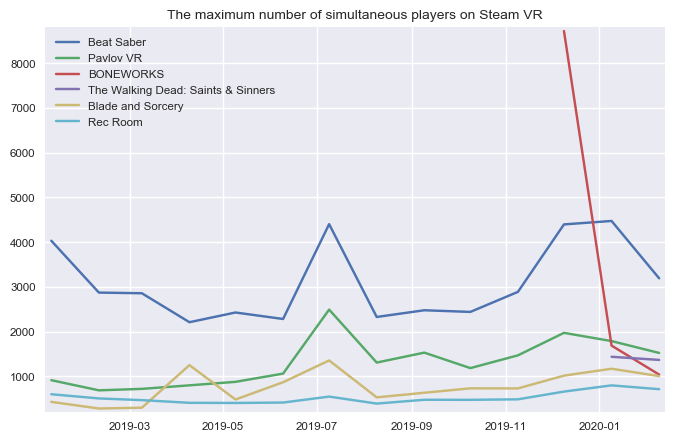
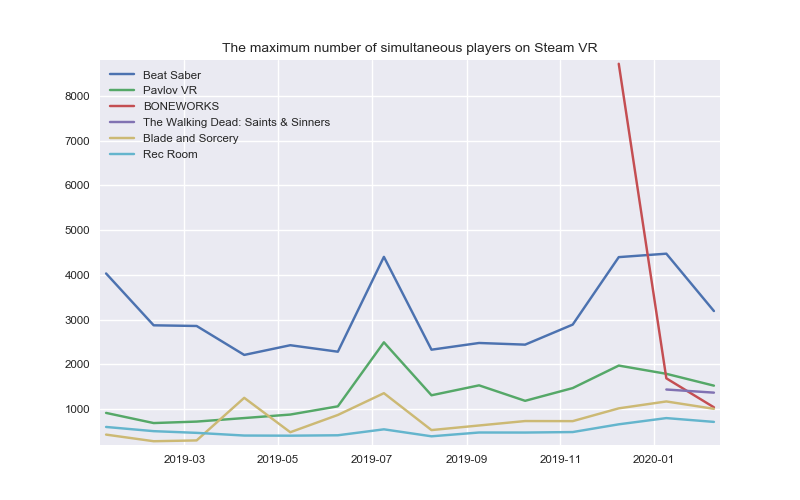
update

diff --git a/src/create_charts.py b/src/create_charts.py
@@ -134,17 +134,17 @@ def main():
 
     chart_title = "Steam VR usage of all VR games based on the monthly average of the daily peak values"
     peak_players_chart(peak_players_online_sql(), chart_title)
-    plt.savefig('../images/avg_peak_over_time.png', bbox_inches='tight')
+    plt.savefig('../images/avg_peak_over_time.png')
 
     plt.subplots()
     chart_title = "The maximum number of simultaneous players on Steam VR"
     top10sql = top10_sql()
     for appid, name, *_ in top10sql[:6]:
         peak_players_chart(max_peak_players_appid(appid), chart_title, name)
-    plt.savefig('../images/max_peak.png', bbox_inches='tight')
+    plt.savefig('../images/max_peak.png')
 
     top10_chart(top10sql)
-    plt.savefig('../images/top10_2020.png', bbox_inches='tight')
+    plt.savefig('../images/top10_2020.png')
     conn.close()
 
     # Displays the charts

diff --git a/README.md b/README.md
@@ -1,12 +1,12 @@
 # Steam VR Statistics
 Determines all Steam VR only games and the number of players. The required information was obtained from https://steamdb.info (number of daily players) and www.vrlfg.net (appid of all VR games) with [Python](https://www.python.org/ "Python") using the [Requests](https://requests.readthedocs.io/en/master/# "Requests") and [JSON](https://docs.python.org/3/library/json.html "JSON") library. The information is stored in a [SQLite](https://www.sqlite.org/index.html "SQLite") database and evaluated with [Matplotlib](https://matplotlib.org/3.1.1/index.html# "Matplotlib") and [Seaborn](https://seaborn.pydata.org/# "Seaborn"). The database I have created with over 1.6 million records is available to everyone and can be used for all kinds of statistics and forecasts.
 <p align="left">
-  <img width="756" height="450" src="https://github.com/Bamux/Steam_VR_Statistics/blob/master/images/top10_2020.png">
+  <img width="800" height="500" src="https://github.com/Bamux/Steam_VR_Statistics/blob/master/images/top10_2020.png">
 </p>
-<p align="center">
-  <img width="681" height="442" src="https://github.com/Bamux/Steam_VR_Statistics/blob/master/images/avg_peak_over_time.png">
+<p align="left">
+  <img width="800" height="500" src="https://github.com/Bamux/Steam_VR_Statistics/blob/master/images/avg_peak_over_time.png">
 </p>
-<p align="center">
-  <img width="675" height="442" src="https://github.com/Bamux/Steam_VR_Statistics/blob/master/images/max_peak.png">
+<p align="left">
+  <img width="800" height="500" src="https://github.com/Bamux/Steam_VR_Statistics/blob/master/images/max_peak.png">
 </p>
 
